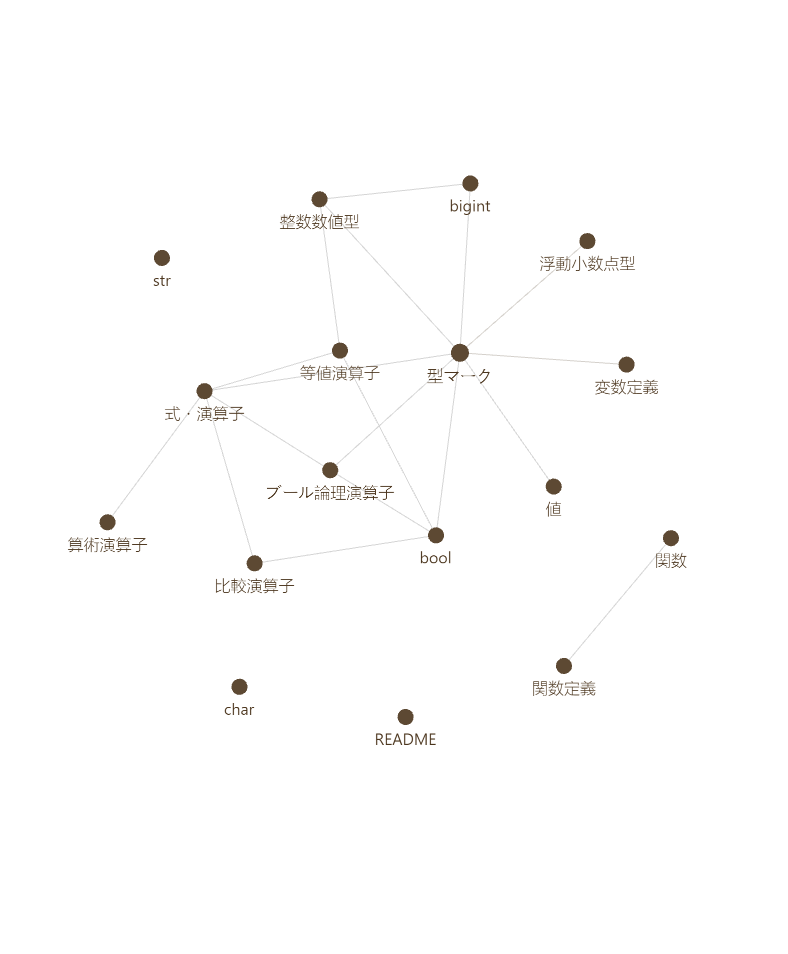
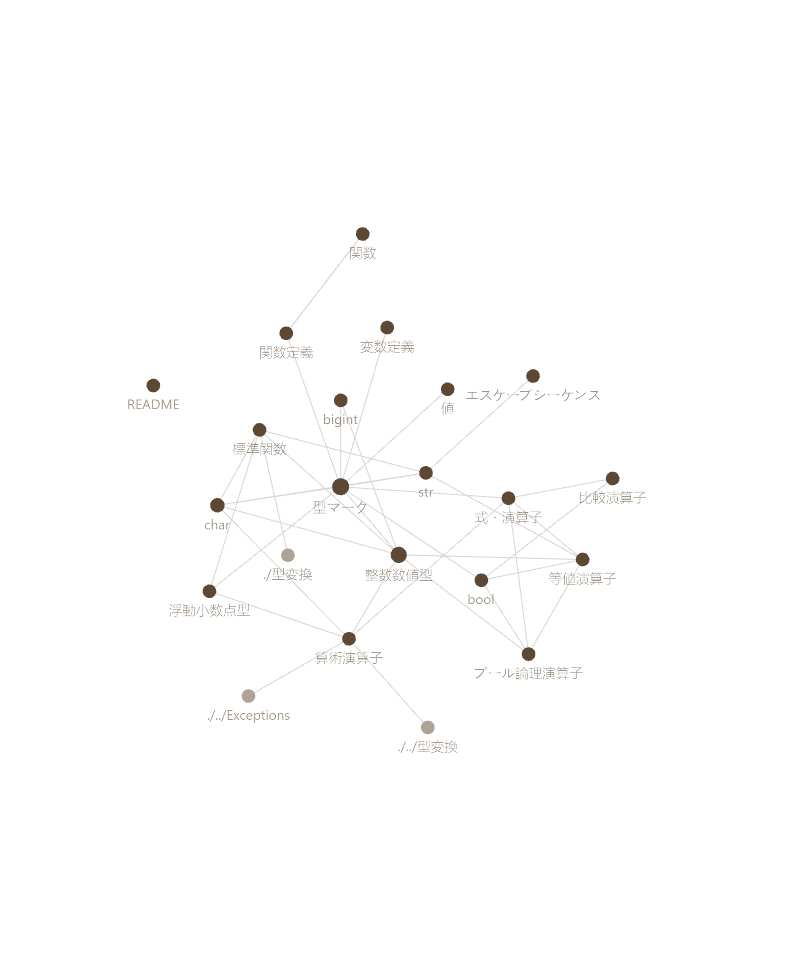
`rm

diff --git a/README.md b/README.md
@@ -1,13 +1,10 @@
-<br>
+
 <p align="center">
 <a href="https://github.com/Soyo-Wind/Argon" target="_blank">
 <img src="./img/logo.png" alt="Argon" height="250" width="250"/>
 </a>
 </p>
-
-<p align="center">
-🧑💻👩💻👨💻 <b>Argon</b> 🧑💻👩💻👨💻
-</p>
+<h1 align=center><b>Argon</b></h1>
 ## Tech
 <div align=center><svg role="img" viewBox="0 0 24 24" xmlns="http://www.w3.org/2000/svg" height=10% width=10%><title>.NET</title><path d="M24 8.77h-2.468v7.565h-1.425V8.77h-2.462V7.53H24zm-6.852 7.565h-4.821V7.53h4.63v1.24h-3.205v2.494h2.953v1.234h-2.953v2.604h3.396zm-6.708 0H8.882L4.78 9.863a2.896 2.896 0 0 1-.258-.51h-.036c.032.189.048.592.048 1.21v5.772H3.157V7.53h1.659l3.965 6.32c.167.261.275.442.323.54h.024c-.04-.233-.06-.629-.06-1.185V7.529h1.372zm-8.703-.693a.868.829 0 0 1-.869.829.868.829 0 0 1-.868-.83.868.829 0 0 1 .868-.828.868.829 0 0 1 .869.829Z"/></svg>
 <br>
